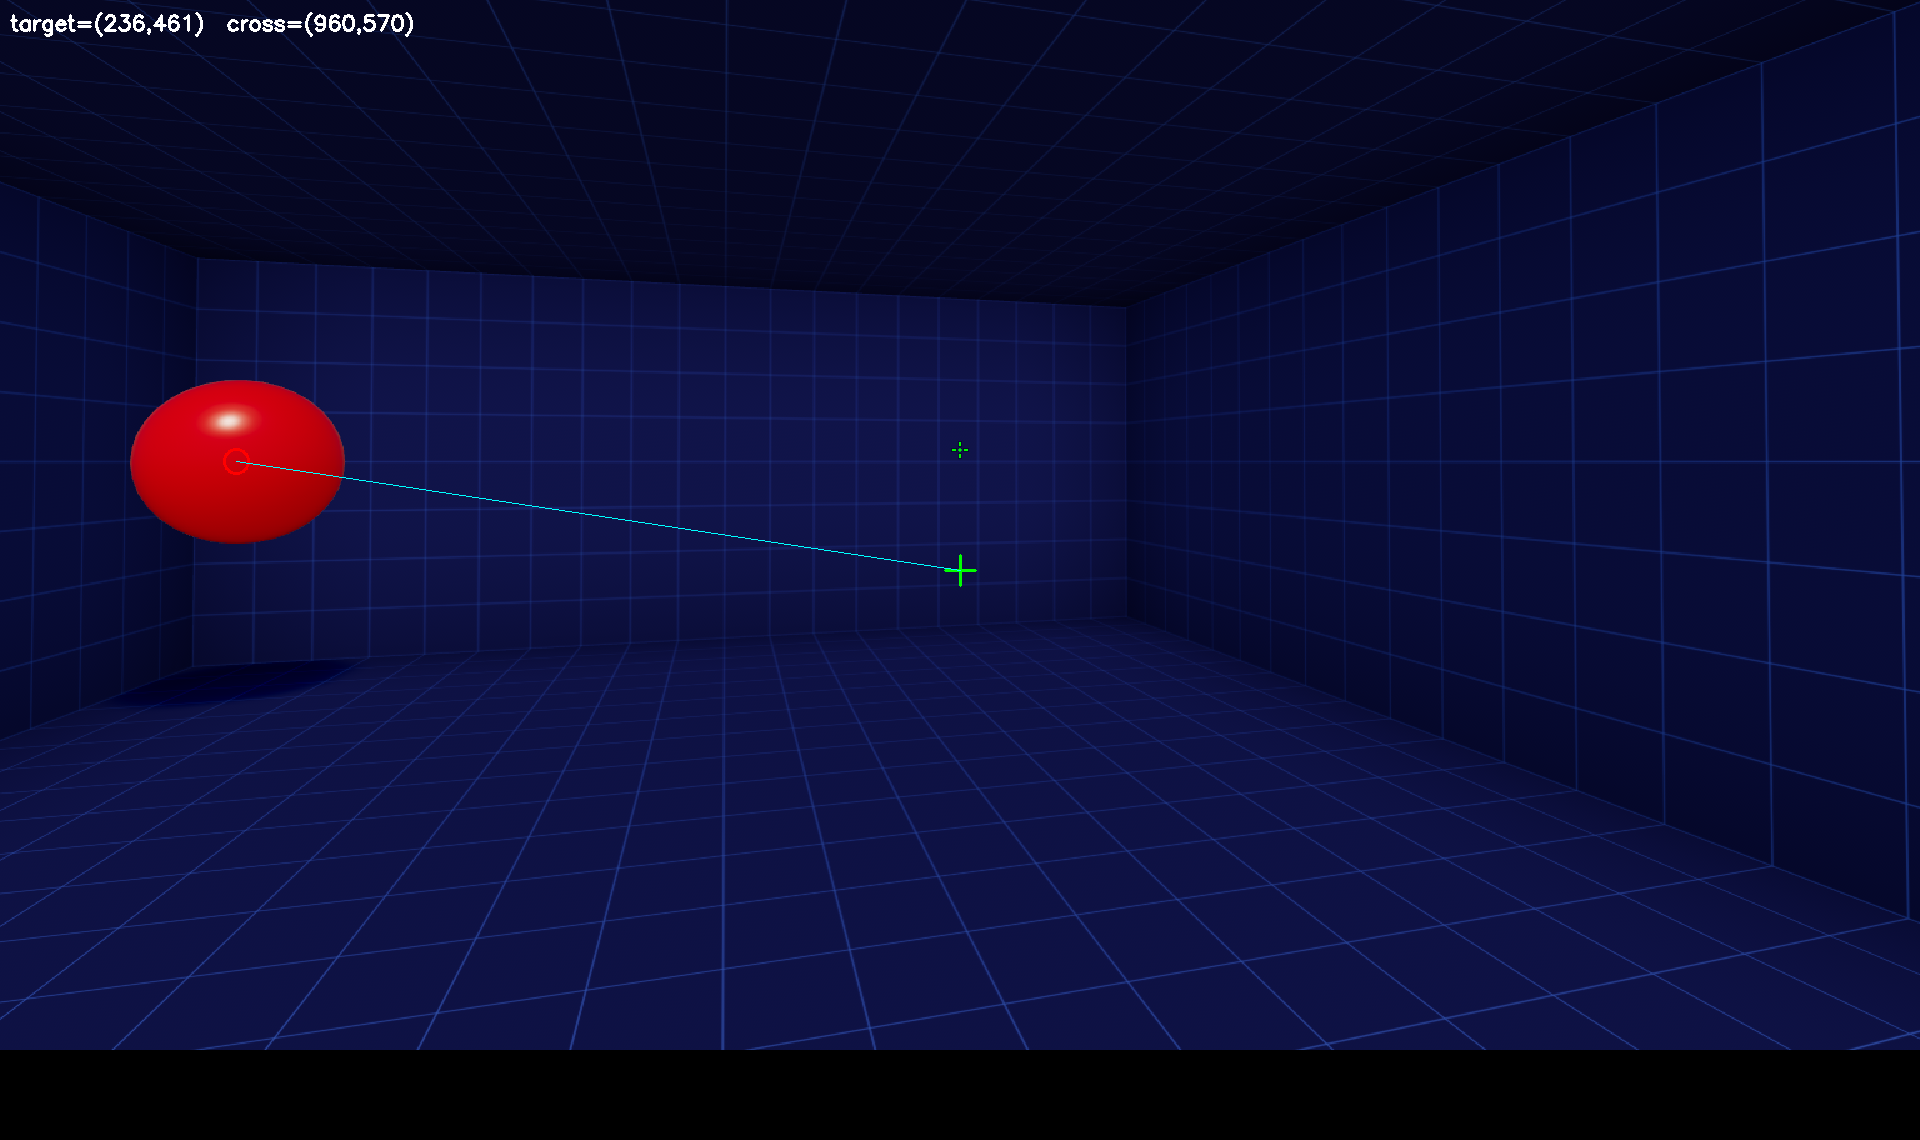
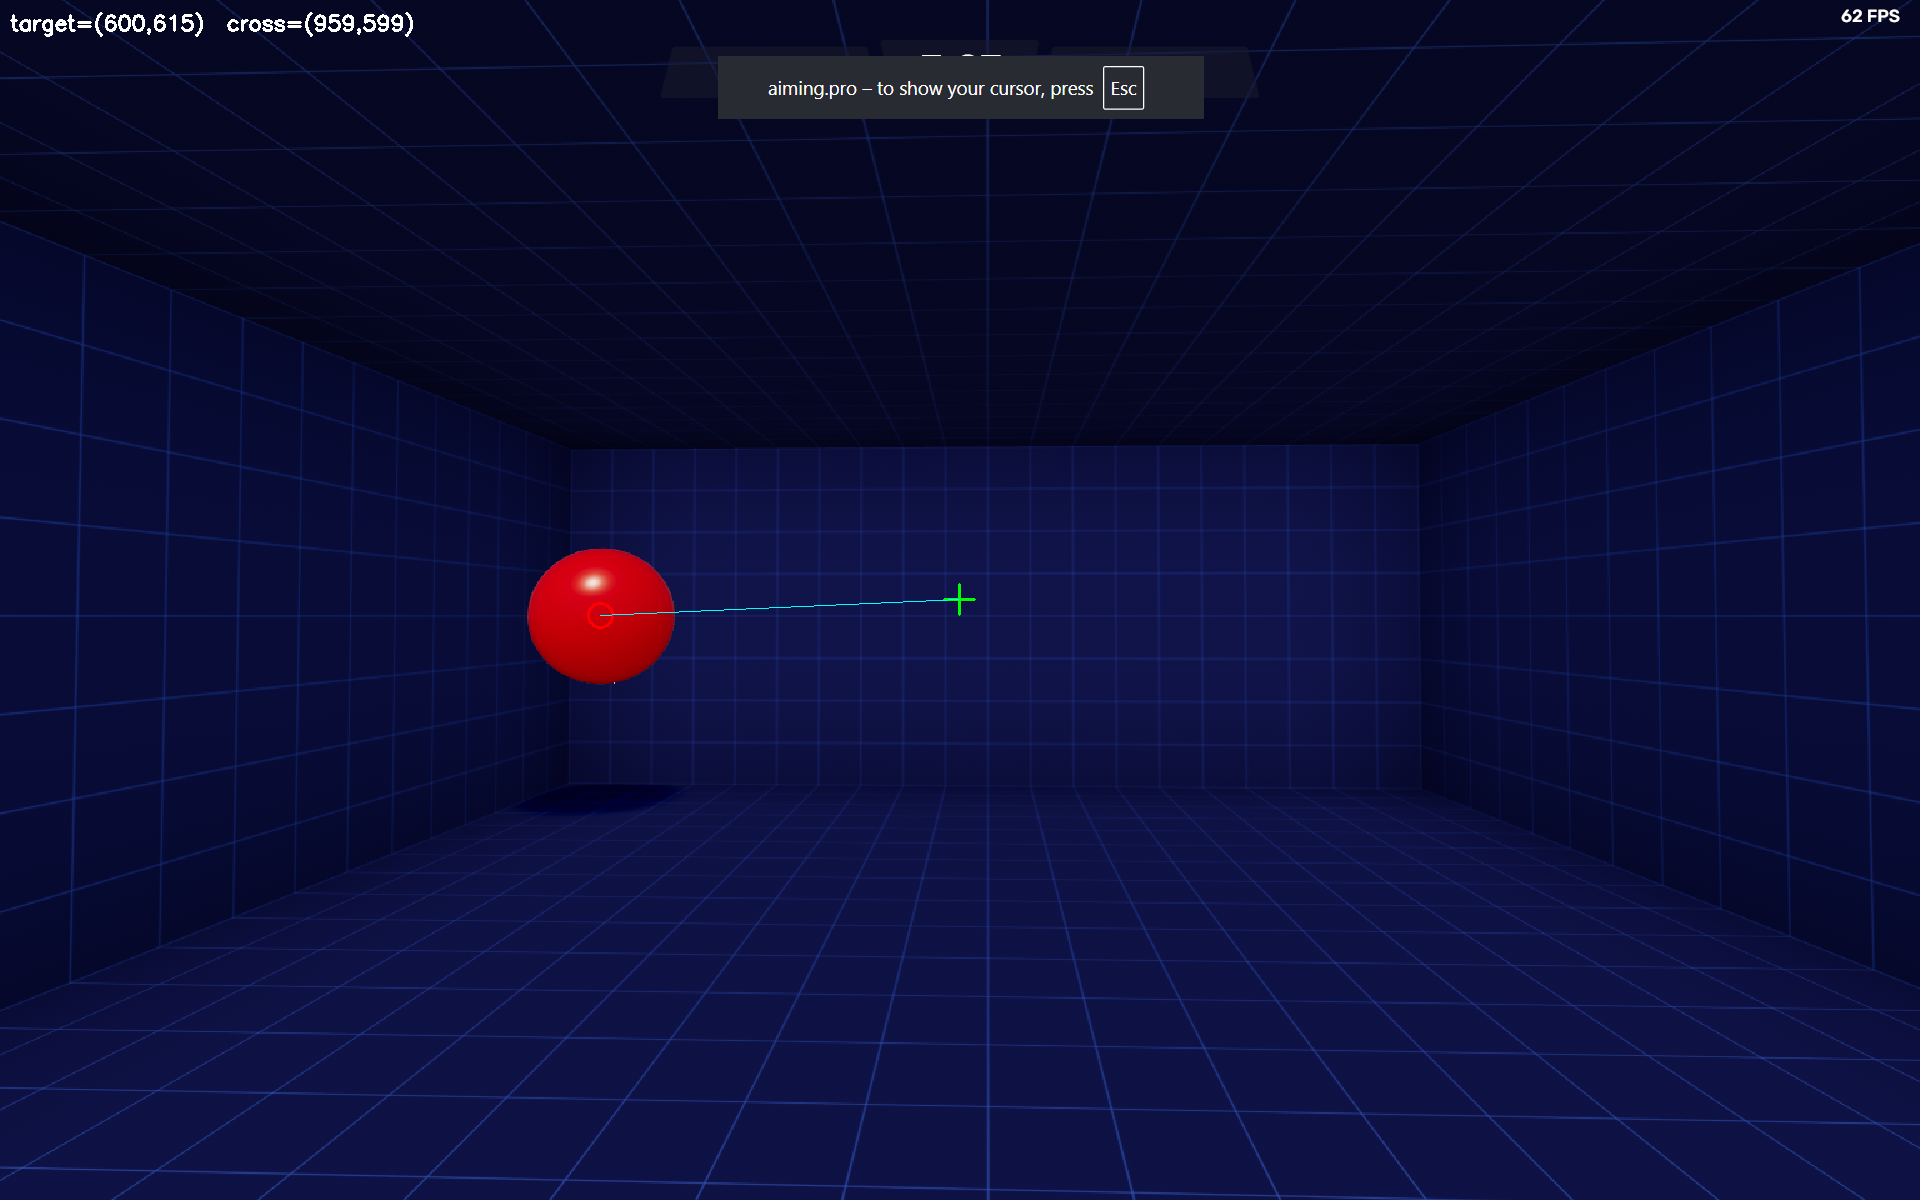
minor clean up

diff --git a/integration/simulators.py b/integration/simulators.py
@@ -127,7 +127,8 @@ class HSVBasedObserver(BaseCNNObserver):
             self._have_target   = True
         else:
             # Detection drop-out: reuse last known position (centre if never seen)
-            target_x = self._last_target_x
+            # target_x = self._last_target_x
+            target_x = 0.0
  
         # ── Cursor (crosshair) ────────────────────────────────────────────────
         if self.detect_crosshair:
@@ -138,10 +139,10 @@ class HSVBasedObserver(BaseCNNObserver):
         self._last_cursor_x = cursor_x
  
         # ── Build contract observation (ratios — resolution-independent) ──────
-        norm_error   = (cursor_x - target_x) / self.screen_w
-        norm_cursor  = cursor_x / self.screen_w
+        norm_error = (cursor_x - target_x) / self.screen_w
+        norm_cursor = cursor_x / self.screen_w
         last_dx_norm = float(np.clip(last_dx / MAX_DX, -1.0, 1.0))
-        pulse_norm   = pulse_duration_ms / 1000.0
+        pulse_norm = pulse_duration_ms / 1000.0
  
         obs = np.array(
             [norm_error, norm_cursor, last_dx_norm, pulse_norm],
@@ -361,7 +362,7 @@ class HSVEMSController(BaseEMSController):
     Returns actual_dx so run.py can pass it back as last_dx next frame.
     """
 
-    def __init__(self, observer: HSVBasedObserver, std_scale: float = 1.0):
+    def __init__(self, observer: HSVBasedObserver):
         """
         Args:
             observer  : HSVBasedObserver — updated after each pulse so
@@ -370,34 +371,29 @@ class HSVEMSController(BaseEMSController):
                         Curriculum scheduler in train can ramp this externally.
         """
         self.observer   = observer
-        self.std_scale  = std_scale
         self._pulse_count = 0
-        print("[SimEMS] Simulated EMS active — no hardware connected.")
+        print("[HSVEMS] HSV Simulated EMS active — no hardware connected.")
 
-    def send_action(self, action: str) -> float:
+    def send_action(self, action: str) -> None:
         """
         Simulate the EMS pulse and update the observer's cursor position.
 
-        Returns:
-            actual_dx : signed pixel displacement (positive=right, negative=left).
-                        For 'click' and 'none', returns 0.0.
-                        run.py stores this and passes it back as last_dx.
         """
         actual_dx = 0.0
 
         if action == "right":
-            print(f"[SimEMS] → RIGHT ")
+            print(f"[HSVEMS] → RIGHT ")
 
         elif action == "left":
-            print(f"[SimEMS] → LEFT ")
+            print(f"[HSVEMS] → LEFT ")
 
         elif action == "click":
-            print(f"[SimEMS] → CLICK (momentary pulse) (pulse #{self._pulse_count})")
+            print(f"[HSVEMS] → CLICK ")
 
         elif action == "none":
-            print(f"[SimEMS] → NONE (all relays open)")
+            print(f"[HSVEMS] → NONE (all relays open)")
 
-        return actual_dx
+        return 0
 
     def close(self) -> None:
-        print(f"[SimEMS] Closed. Total pulses sent: {self._pulse_count}")
+        print(f"[HSVEMS] Closed.")

diff --git a/run.py b/run.py
@@ -53,7 +53,6 @@ from integration.interfacing import (
 # ── Constants ─────────────────────────────────────────────────────────────────
 
 MODEL_PATH = "models/aiming_ppo3"
-CLICK_Y    = 130 + 720 // 2   # vertical centre of game capture region
 
 # Deploy loop frame-rate cap (ceiling). Tune to your game/EMS pacing.
 DEPLOY_TARGET_FPS = 30
@@ -64,6 +63,7 @@ CURRICULUM_RAMP_START = 0.20   # std_scale = 0 until this fraction of training
 CURRICULUM_RAMP_END   = 0.80   # std_scale = 1 from this fraction onward
 
 ARDUINO_PORT = "/dev/ttyACM0"
+ACTION_MAP = {0: "left", 1: "right", 2: "click", 3: "none"}
 
 # ── Component factory ─────────────────────────────────────────────────────────
 
@@ -157,8 +157,6 @@ def deploy_loop(model, observer, ems):
     # from stable_baselines3 import PPO
     # from integration.interfacing import BaseCNNObserver, BaseEMSController
     from integration.simulators import SimulatedCNNObserver, HSVBasedObserver
-
-    ACTION_MAP = {0: "left", 1: "right", 2: "click"}
 
     last_dx           = 0.0
     last_action_sent  = None  # Track last EMS command to avoid redundant sends
@@ -369,7 +367,7 @@ def evaluate(args):
     print("\n=== Evaluating saved model (sim, full variance) ===\n")
 
     observer = SimulatedCNNObserver(screen_w=SCREEN_W)
-    ems      = SimulatedEMSController(observer=observer, std_scale=1.0)
+    ems = SimulatedEMSController(observer=observer, std_scale=1.0)
     
     env = AimingEnv(
         screen_w=SCREEN_W,
@@ -381,8 +379,6 @@ def evaluate(args):
     )
 
     model    = PPO.load(MODEL_PATH, env=env)
-
-    ACTION_MAP = {0: "left", 1: "right", 2: "click"}
 
     n_eps       = 10
     all_hits    = []
@@ -479,7 +475,6 @@ def test_deploy(args):
     model = PPO.load(MODEL_PATH)
 
     # ── Metrics collection ────────────────────────────────────────────────────
-    ACTION_MAP = {0: "left", 1: "right", 2: "click"}
     n_episodes = 10
     all_episode_hits = []
     all_episode_rewards = []

diff --git a/integration/ems_controller.py b/integration/ems_controller.py
@@ -6,8 +6,6 @@ Implements BaseEMSController. Called every frame by run.py's deploy_loop().
 Communication protocol (ASCII over USB serial):
     Python  →  Arduino :  "L\n"  |  "R\n"  |  "N\n"
                           left      right     none/click (no pulse)
-    Arduino →  Python  :  "OK\n"
-                          sent after relay has opened again (pulse complete)
 
 send_action() BLOCKS until "OK\n" is received so that run.py's loop
 only advances to the next observation after the hand has finished moving.
